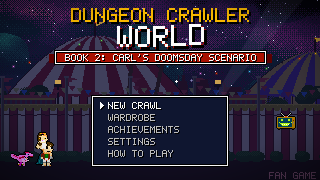
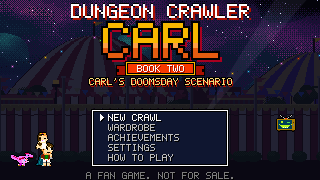
Book Two: cruder achievements, hub cover and blurb for the new title, integration notes
Claude-Session: https://claude.ai/code/session_011bu86qkEBWwEtVy4FqHNQ3

diff --git a/crawler2/js/data.js b/crawler2/js/data.js
@@ -3517,25 +3517,25 @@
   D.achievements = {
     /* ---- the book's achievements ---- */
     elementary: { name: "IT'S ELEMENTARY, MY DEAR CRAWLER!", event: 'quest_start', count: 1, box: 'bronze',
-      desc: "YOU GOT A QUEST! A REAL ONE! SOMEWHERE A DETECTIVE IN A DEERSTALKER HAT IS NODDING. REWARD: YOU WILL NEVER BE BORED AGAIN. OR SAFE." },
+      desc: "YOU GOT A QUEST! A REAL ONE! SOMEWHERE A DETECTIVE IN A DEERSTALKER HAT JUST GOT A LITTLE BIT HARD. REWARD: A BRAND NEW WAY TO DIE." },
     meet_elite: { name: 'MEET AN ELITE!', event: 'flag:met_signet', count: 1, box: 'silver',
-      desc: "YOU MET A ONE-OF-A-KIND STAR OF A SIDE PRODUCTION. SHE WAS MOSTLY NAKED. ELITES NOW SHOW ON YOUR MAP. BEAM ME UP, THIS IS GETTING GOOD." },
+      desc: "YOU MET A ONE-OF-A-KIND STAR OF A SIDE PRODUCTION. SHE WAS MOSTLY TITS AND TATTOOS. ELITES NOW SHOW ON YOUR MAP. TRY LOOKING AT THEIR FACES." },
     lazarus: { name: 'LAZARUS!', event: 'flag:knocked_out', count: 1, box: 'lucky_bastard',
-      desc: "HIT BY A SPELL ABOVE LEVEL 15 AND YOU GOT BACK UP. MOST PEOPLE STAY DOWN. TELL ME ABOUT THE RABBITS, CRAWLER. NO. DON'T." },
+      desc: "HIT BY A SPELL ABOVE LEVEL 15 AND YOU GOT BACK UP. MOST PEOPLE STAY DOWN. MOST PEOPLE AREN'T STUBBORN SONS OF BITCHES. TELL ME ABOUT THE RABBITS." },
     city_hall: { name: "YOU CAN'T FIGHT CITY HALL!", event: 'flag:saw_grimaldi', count: 1, box: 'bronze',
-      desc: "YOU FOUND A CITY BOSS! REWARD: A WHOLE LOT OF PEOPLE NOW GET TO WATCH YOU DIE. VERY SLOWLY. IN A TENT. WITH POPCORN." },
+      desc: "YOU FOUND A CITY BOSS! REWARD: A QUADRILLION PEOPLE NOW GET TO WATCH YOU DIE. SLOWLY. IN A TENT. WITH POPCORN AND THEIR PANTS OFF." },
     quadrillion: { name: 'ONE QUADRILLION!', event: 'flag:quadrillion', count: 1, box: 'fan',
       desc: "ONE OF THE FIRST TEN CRAWLERS PAST A QUADRILLION VIEWS. A ONE WITH FIFTEEN ZEROS. THAT IS A LOT OF EYEBALLS ON YOUR BARE ASS." },
     yellow_belly: { name: 'YELLOW-BELLIED CHICKENSHIT!', event: 'flee', count: 1, box: null,
       desc: "YOU STARTED A FIGHT AND RAN AWAY BEFORE ANYBODY DIED. EVERYBODY IS STILL ALIVE AND EVERYBODY IS DISAPPOINTED. NO PRIZE, CHICKENSHIT." },
     johnny_quest: { name: 'JOHNNY QUEST!', event: 'quest_done', count: 1, box: 'quest_gold',
-      desc: 'YOU FINISHED A QUEST! GRAB YOUR DOG, YOUR DAD AND YOUR BEST FRIEND IN A TURBAN AND GO HAVE A SATURDAY MORNING ADVENTURE.' },
+      desc: "YOU FINISHED A QUEST! GRAB YOUR DOG, YOUR DAD AND YOUR BEST FRIEND IN A TURBAN AND GO HAVE A SATURDAY MORNING ADVENTURE. TRY NOT TO SHIT YOURSELF." },
     hadji: { name: 'HADJI!', event: 'quest_done:show_must_go_on', count: 1, box: 'quest_platinum', unlock: { skin: 'carl_clown' },
-      desc: "YOU FINISHED A QUEST IN A WAY NOBODY PLANNED FOR. POISONED BLOOD, A TV DEAL AND WORM ICE CREAM. YOUR BOX GOT UPGRADED. NOBODY KNOWS HOW." },
+      desc: "YOU FINISHED A QUEST IN A WAY NOBODY PLANNED FOR. POISONED BLOOD, A TV DEAL AND WORM ICE CREAM. WHAT THE ACTUAL FUCK. YOUR BOX GOT UPGRADED." },
     assassin: { name: 'ASSASSIN!', event: 'flag:quill_dead', count: 1, box: 'assassin',
-      desc: "YOU KILLED A RANKING NPC. A RECEPTIONIST, TECHNICALLY. THE MOST DANGEROUS KIND. THE GATEKEEPER IS DOWN. AND SPREAD OVER SIX BLOCKS." },
+      desc: "YOU KILLED A RANKING NPC. A RECEPTIONIST, TECHNICALLY. THE MOST DANGEROUS KIND. THE GATEKEEPER IS DOWN, IN SEVERAL WET PIECES. GOOD FUCKING RIDDANCE." },
     ultimate_power: { name: 'ULTIMATE EXTREME POWER!', event: 'flag:magistrate', count: 1, box: 'tyrant', unlock: { skin: 'carl_magistrate' },
-      desc: 'YOU KILLED THE ACTING MAGISTRATE AND THE TOWN IS YOURS. EASY, CHARLEMAGNE. IT IS ONE MEDIUM TOWN. YOU HAVE NOT CONQUERED A CONTINENT.' },
+      desc: "YOU KILLED THE ACTING MAGISTRATE AND THE TOWN IS YOURS. EASY, CHARLEMAGNE. IT'S ONE MEDIUM TOWN, YOU'RE IN YOUR UNDERWEAR, AND YOUR BALLS ARE OUT." },
     cockblock: { name: 'COCKBLOCK!', event: 'flag:cockblock', count: 1, box: 'quest_silver',
       desc: "YOU REMOVED AN NPC ANOTHER CRAWLER NEEDED FOR HIS QUEST. HE WAS IN HER APARTMENT. HE WAS SO CLOSE. NOW HE HAS NOTHING TO STAB. POOR BASTARD." },
     bandit: { name: 'BANDIT!', event: 'win', count: 1, box: 'celestial', unlock: { skin: 'carl_gold' },
@@ -3545,35 +3545,35 @@
 
     /* ---- our own ---- */
     first_blood: { name: 'WELCOME TO THE OVER CITY', event: 'kill', count: 1, box: 'bronze',
-      desc: "YOUR FIRST KILL ON FLOOR THREE. THE FAKE SUN SMILED. THE FAKE SUN ALWAYS SMILES. IT IS PAINTED ON. LIKE A CLOWN'S." },
+      desc: "YOUR FIRST KILL ON FLOOR THREE. IT DIED SCREAMING AND SHITTING ITSELF. THE FAKE SUN SMILED. THE FAKE SUN IS A SICK FUCK. SO ARE WE." },
     kill_100: { name: 'NEIGHBORHOOD WATCH', event: 'kill', count: 100, box: 'silver',
-      desc: "A HUNDRED KILLS. THE NEIGHBORHOOD IS SAFER. THE NEIGHBORHOOD IS ALSO SMALLER, WETTER AND MOSTLY IN BUCKETS." },
+      desc: "A HUNDRED KILLS. THE NEIGHBORHOOD IS SAFER. IT IS ALSO SMALLER, WETTER AND MOSTLY IN BUCKETS. GODDAMN, CRAWLER." },
     mold_burn: { name: 'LION KING OF THE GRILL', event: 'regrow_burn', count: 5, box: 'silver',
       desc: "YOU BURNED FIVE MOLD LIONS SO THEY STAYED DOWN. THE SMELL OF COOKED WORM MANE WILL NEVER LEAVE YOU. HAKUNA MATATA, MOTHERFUCKER." },
     krasue_5: { name: 'HEADHUNTER', event: 'krasue_body', count: 5, box: 'silver',
-      desc: 'FIVE KRASUE BODIES DESTROYED. THE HEADS CAME HOME TO NOTHING. THE SADDEST HOMECOMING IN THE SYNDICATE.' },
+      desc: "FIVE KRASUE BODIES DESTROYED. THE HEADS FLOATED HOME, GUTS SWINGING, TO NOTHING. SADDEST FUCKING HOMECOMING IN THE SYNDICATE." },
     shadow_50: { name: 'WHO YOU GONNA CALL?', event: 'kill:shadow_leak', count: 50, box: 'gold',
-      desc: "FIFTY SHADOW LEAKS PUNCHED INTO NOTHING. NO PROTON PACK. JUST FISTS, BAD MANNERS AND FROSTBITTEN KNUCKLES." },
+      desc: "FIFTY SHADOW LEAKS PUNCHED INTO NOTHING. NO PROTON PACK. JUST FISTS, BAD MANNERS AND FROSTBITE IN PLACES THAT SHOULD NEVER GET FROSTBITE." },
     boomy_boy: { name: 'BOOMY BOY!', event: 'boomy_boy', count: 1, box: 'gold',
-      desc: 'TWO CLOCKWORK DINOSAURS. TWO STICKS OF DYNAMITE. ONE PLAY. THE CAT NAMED IT. SHE WILL REMIND YOU.' },
+      desc: "TWO CLOCKWORK DINOSAURS. TWO STICKS OF DYNAMITE. ONE PLAY. IT WAS FUCKING BEAUTIFUL. THE CAT NAMED IT. SHE WILL REMIND YOU UNTIL ONE OF YOU DIES." },
     mic_drop: { name: 'MIC DROP', event: 'mic_drop', count: 1, box: 'silver',
-      desc: 'TOSS A LIT JUG UP, TELEPORT OUT, LET GRAVITY FINISH THE SENTENCE. THE PLAYBOOK GROWS.' },
+      desc: "TOSS A LIT JUG UP, TELEPORT OUT, LET GRAVITY FINISH THE SENTENCE. THE SENTENCE WAS 'EAT SHIT.'" },
     panic_10: { name: "DON'T PANIC. OK, PANIC.", event: 'panic', count: 10, box: 'silver',
       desc: "TEN PANICS. FEAR, THEN MISSILES, THEN SCREAMING. MOSTLY THEIRS. A FEW OF THEM SHIT THEMSELVES. WE HAVE THE AUDIO." },
     kick_100: { name: 'FREE AS A BIRD', event: 'kick', count: 100, box: 'gold',
       desc: "A HUNDRED KICKS. WITH FREEBALLING, EVERY ONE COUNTS DOUBLE. YOUR BALLS HAVE NEVER BEEN SO FREE. OR SO DANGEROUS." },
     boss_terror: { name: 'SEND IN THE CLOWNS', event: 'boss:terror_big', count: 1, box: 'bronze',
-      desc: "YOU FELLED THE TALLEST CLOWN IN THE RUINS. TIMBER. THE FALL TOOK FOUR SECONDS. THE SPLAT TOOK A FIFTH." },
+      desc: "YOU FELLED THE TALLEST CLOWN IN THE RUINS. TIMBER, MOTHERFUCKER. THE FALL TOOK FOUR SECONDS. THE SPLAT TOOK A FIFTH." },
     boss_heather: { name: 'UNBEARABLE', event: 'boss:heather', count: 1, box: 'silver',
       desc: 'HEATHER THE BEAR SKATED HER LAST LAP. YOU MADE IT QUICK. THE CROWD WENT QUIET. THAT NEVER HAPPENS.' },
     boss_dispenser: { name: 'OUT OF ORDER', event: 'boss:dispenser', count: 1, box: 'gold',
-      desc: 'YOU KILLED A MANTA RAY THAT WAS PRETENDING TO BE A BUILDING. THE BUILDING IS NOW PRETENDING TO BE A CRATER.' },
+      desc: "YOU KILLED A MANTA RAY PRETENDING TO BE A BUILDING. THE BUILDING IS NOW A CRATER FULL OF FISH GUTS. REAL ESTATE IS A BITCH." },
     boss_vincente: { name: 'NOT THE FACE', event: 'boss:vincente', count: 1, box: 'silver',
       desc: "YOU KICKED AN ELF IN THE BALLS, THEN THE CAT TOOK HIS HEAD. THE DINOSAUR IS KEEPING IT. DO NOT ASK WHERE. IT IS UNDER HIS PILLOW." },
     crime_1: { name: 'ONE STRIKE', event: 'crime', count: 1, box: 'bronze',
       desc: "YOU HURT A CITIZEN IN FRONT OF THE GUARDS. NO TRIAL. NO JURY. JUST A VERY LONG SWORD. RUN, DUMBASS." },
     banned_1: { name: 'PERSONA NON GRATA', event: 'banned', count: 1, box: 'bronze',
-      desc: 'YOU GOT YOURSELF BANNED FROM A WHOLE TOWN. THE SHOPKEEPERS ARE RELIEVED. THE GUARDS ARE DISAPPOINTED.' },
+      desc: "YOU GOT YOURSELF BANNED FROM A WHOLE TOWN. THE SHOPKEEPERS ARE RELIEVED. THE GUARDS ARE PISSED THEY DIDN'T GET TO CUT YOU IN HALF." },
     craft_10: { name: 'MOONSHINE MACGYVER', event: 'craft', count: 10, box: 'silver',
       desc: 'TEN JUGS O\'BOOM BREWED FROM HOOCH AND RAGS. A PAPERCLIP AND A CANDY BAR WERE NOT EVEN REQUIRED.' },
     talk_show: { name: 'HIGHWAY TO THE DANGER ZONE', event: 'clear:a2_danger_zone', count: 1, box: 'gold', unlock: { skin: 'carl_bodyguard' },
@@ -3581,17 +3581,17 @@
     royal_flush: { name: 'ROYAL FLUSH', event: 'clear:x_restroom', count: 1, box: 'silver', unlock: { skin: 'carl_hazmat' },
       desc: "YOU CLEARED A RUINS RESTROOM. THE URCHINS WERE ON SHIFT AND THE SHIT WAS EVERYWHERE. YOU EARNED THE HAZMAT SUIT. YOU NEEDED IT FIRST." },
     temple_done: { name: 'TEMPLE OF DOOM', event: 'clear:x_temple', count: 1, box: 'silver',
-      desc: "YOU LOOTED A CORRUPT TEMPLE AND NOBODY PULLED YOUR HEART OUT THROUGH YOUR CHEST. THE SHOW IS VERY DISAPPOINTED. SO AM I." },
+      desc: "YOU LOOTED A CORRUPT TEMPLE AND NOBODY PULLED YOUR HEART OUT THROUGH YOUR ASSHOLE. THE SHOW IS VERY DISAPPOINTED." },
     level_20: { name: 'PRIMAL SCREAM', event: 'level:20', count: 1, box: 'gold', unlock: { skin: 'carl_primal' },
-      desc: 'LEVEL 20 AS A PRIMAL. THE MODEL FOR YOUR RACE IS STILL A BLANK. YOU ARE FILLING IT IN WITH VIOLENCE.' },
+      desc: "LEVEL 20 AS A PRIMAL. THE MODEL FOR YOUR RACE IS STILL A BLANK. YOU ARE FILLING IT IN WITH VIOLENCE AND YOUR BARE ASS." },
     combo_25: { name: 'C-C-C-COMBO BREAKER', event: 'combo25', count: 1, box: 'gold', unlock: { skin: 'carl_toga' },
-      desc: 'A 25 HIT COMBO. AN ANNOUNCER IN A STUDIO ON THE OTHER SIDE OF THE GALAXY JUST LOST HIS VOICE.' },
+      desc: "A 25 HIT COMBO. AN ANNOUNCER ON THE OTHER SIDE OF THE GALAXY JUST LOST HIS VOICE AND, BRIEFLY, CONTROL OF HIS BLADDER." },
     pet_donut: { name: 'GOOD KITTY', event: 'pet_donut', count: 1, box: 'fan',
       desc: 'YOU PET THE PRINCESS. SHE PERMITTED IT. DO NOT MISTAKE THIS FOR AFFECTION. IT WAS A TAX.' },
     pet_donut_25: { name: 'CRAZY CAT PERSON', event: 'pet_donut', count: 25, box: 'gold', unlock: { skin: 'carl_pajamas' },
       desc: 'TWENTY-FIVE PETS. DONUT NOW LISTS YOU AS STAFF ON HER WEBSITE. SHE DOES NOT HAVE A WEBSITE. YET.' },
     imported: { name: 'PREVIOUSLY ON...', event: 'import', count: 1, box: 'gold',
-      desc: 'YOU BROUGHT YOUR BOOK 1 SAVE. THE SHOW LOVES A RETURNING CAST MEMBER. THE MONSTERS DO NOT.' },
+      desc: "YOU BROUGHT YOUR BOOK ONE CRAWLER. THE SHOW LOVES A RETURNING CAST MEMBER. THE MONSTERS LOVE A RETURNING SNACK. WELCOME BACK, YOU BEAUTIFUL BASTARD." },
     doomsday: { name: 'POCKET APOCALYPSE', event: 'flag:doomsday', count: 1, box: 'gold',
       desc: 'YOU PUT A BOMB THE SIZE OF A CITY IN A GLASS JAR AND THEN PUT THE JAR IN YOUR POCKET. DO NOT SIT DOWN TOO HARD.' }
   };

diff --git a/dcc/index.html b/dcc/index.html
@@ -203,8 +203,9 @@
         <h2>Book Two</h2>
         <div class="floors">Floor 3 &#183; The Over City</div>
         <p>Carl's Doomsday Scenario as a late-life cartridge with the extra sound chip. Eight days on a
-        clock, an undead circus, a talk show, a murdered-hooker mystery in a bird town, and a soul crystal
-        that is about to go off. Walk the streets by day and night. Imports your Book One save.</p>
+        clock, an undead circus, a topless half-elf whose charm turns Carl's boxers into a circus tent, a
+        talk show, a murdered-hooker mystery in a bird town, and a soul crystal that is about to go off.
+        Your Book One crawler walks in with their level, stats and every piece of gear.</p>
         <div class="save none" id="save-book2">No crawl saved yet</div>
         <span class="go">Enter the Over City &#9654;</span>
       </div>
@@ -271,9 +272,10 @@
     'Welcome to crawler select. Pick a book. Every book is its own game.',
     'Book One runs on a cartridge from 1987. Blowing on it does not help. Do it anyway.',
     'Every new book gets a new console generation. Progress is a ladder, crawler. Mind the rungs.',
-    'Book Two came out of the box. The Over City has eight days. Do not waste them in the bar.',
+    'Book Two came out of the box. The Over City has eight days. Do not waste them in the fucking bar.',
+    'Your crawler carries over. Your gear carries over. Your trauma carries over. That one is free.',
     'Reminder: pits are fatal, plot armor is limited, and the cat is in charge.',
-    'The sponsors are standing by. The sponsors are always standing by.',
+    'The sponsors are standing by. The sponsors are always standing by. Some of them are touching themselves.',
     'That skull down there is the prototype. We do not talk about the prototype.'
   ];
   var out = document.getElementById('ai-line');

diff --git a/crawler2/DESIGN.md b/crawler2/DESIGN.md
@@ -815,3 +815,30 @@ Section 0 already says adult. The first pass came out PG-13 anyway. This pass fi
 Same rules as before: edit only your files, `node --check` after every batch, no git commands that
 change state, code defensively against modules still in progress, Playwright screenshots of your
 work under the scratchpad, report anything you need from another module.
+
+### 16.7 Integration notes (lead, after round 1)
+- **Balance** is measured, not guessed: `node tools/balance_report.js [regex] [--json]` loads every
+  side-view level at its act's debug level and prints punches-to-kill and hits-to-die. `D.balance`
+  now carries per-act multipliers (`acts: [{}, {...}, {...}]`, applied by `G.bal`) because Carl's
+  punch grows slower (15 / 18 / 21 at levels 13 / 18 / 22) than the act scaling the mobs were first
+  tuned against. Result: mobs 4 / 5 / 5 punches (median), Carl down in 8 / 8 / 7 hits, Terror 36
+  punches, Heather 78, the Dispenser 80, Vincente 85 (all bars). Berserkers are the tanks (7-8
+  punches in the light, more in the dark).
+- **Explosives keep their punch.** The example ratios first written in 16.1 were half of what the
+  game had. `G.ratios`: hob 3.4x a punch, dynamite 6.5x, jug 3.2x plus fire ticks of 0.33x.
+- **Import catch-up.** A Book One crawler below Floor 3's level 13 is raised to 13 on arrival, with
+  the stat points for every level gained (unspent, for the first inn) and a CATCH-UP toast. Stats,
+  gear and everything else carry as they were.
+- **Heather's custard** drops when her last bar starts. Grabbing it cuts her to a fifth of a bar, a
+  quick mercy kill, because in the book she is dying anyway.
+- **Phase banners** read `name`, `sub` and `line` (or `lines`). The System AI's foot gag
+  (`D.ai.carlFeet`) plays on some stomps, at most one per 40 s.
+- **Tests:** `stage_test` 142, `gameplay_check` 21, `flow_test` to WIN, `reach_test` 0 problems in
+  both modes, `cam_test` 0 idle/turn moves in arenas, `rooms_test`, `show_test`, `stage_smoke`,
+  `data_validate`, `actors_validate` all clean. The street crime test in `stage_test` still fails
+  about 1 run in 6 for a reason not yet found; it now prints diagnostics when it does.
+- **Palette caveat (art):** Book Two's backgrounds and tiles were never snapped to the strict 2C02
+  table the way Book One's are. New art (Signet, icons, gore, krasue body) uses table colors only.
+- **Book One bug seen while porting** (not fixed, Book One is the owner's baseline): its gear
+  `special` perks sum to 25 and `specialMul` uses them as a multiplier, so the special meter fills
+  about 26x faster than intended.
